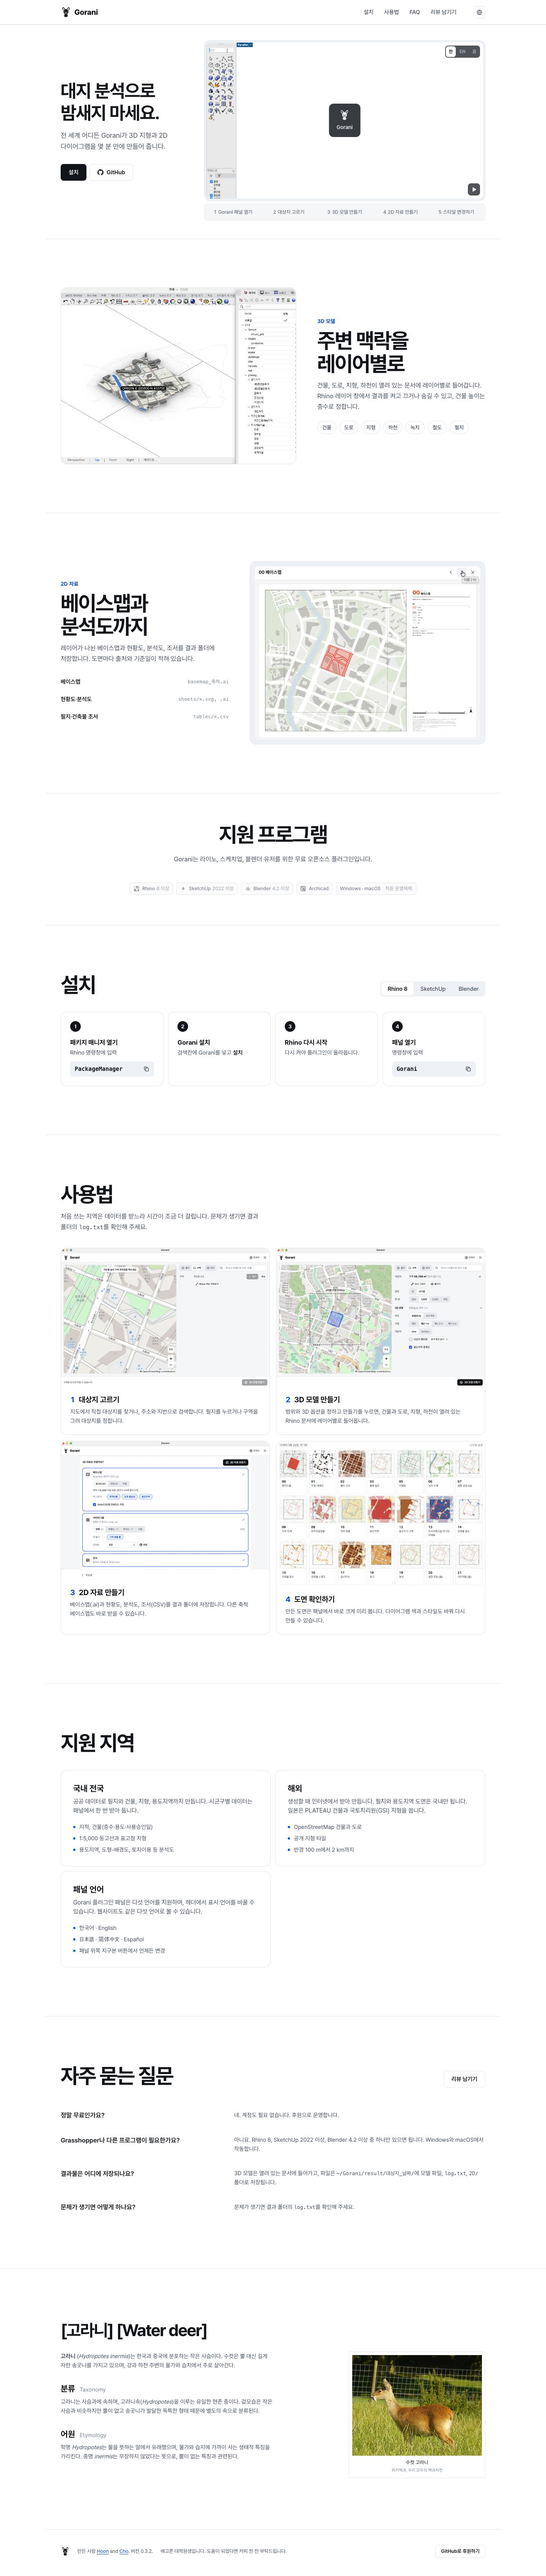
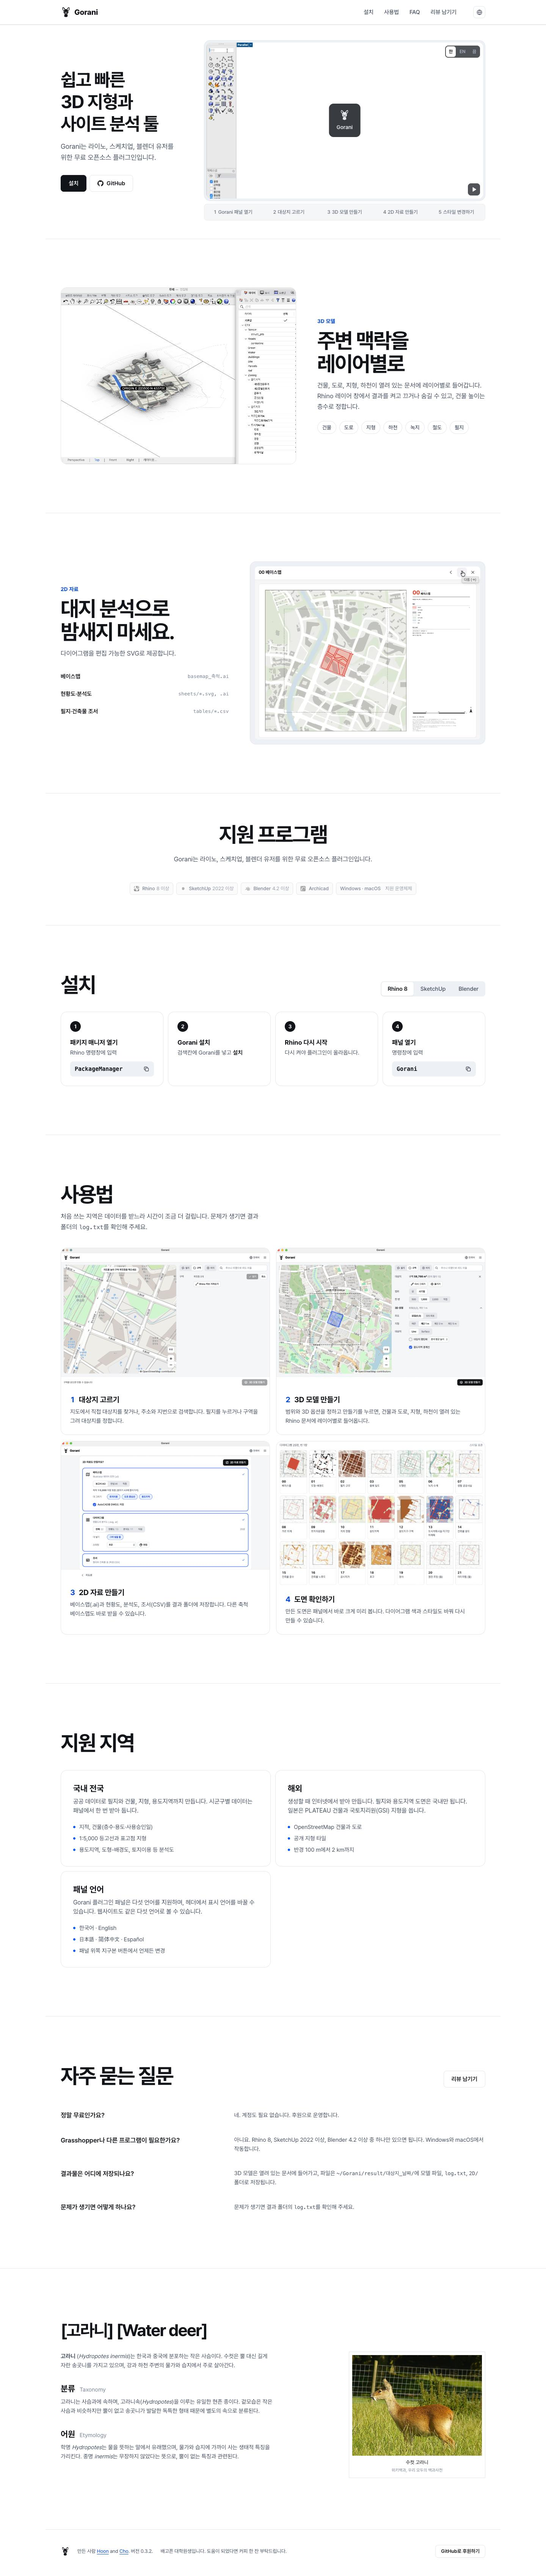
Hero는 담백하게 되돌리고, "대지 분석으로 밤새지 마세요."는 2D 자료 섹션 제목으로
- Hero: "쉽고 빠른 3D 지형과 사이트 분석 툴" / "Gorani는 라이노, 스케치업, 블렌더 유저를 위한 무료 오픈소스 플러그인입니다."
- 2D 자료: 제목 "대지 분석으로 밤새지 마세요.", 부제 "다이어그램을 편집 가능한 SVG로 제공합니다."
- 다섯 언어 같은 뜻으로, 기능 섹션 제목은 text-wrap: balance
- PR 스크린샷 다시 찍음

Changed region(s): [[0.0938, 0.2187, 0.3125, 0.2812], [0.0938, 0.0312, 0.3125, 0.0937], [0.3438, 0.2499, 0.4062, 0.2812]]

diff --git a/ja/index.html b/ja/index.html
@@ -107,8 +107,8 @@
   <div class="wrap hero-wrap">
     <section class="hero" aria-labelledby="hero-title">
       <div class="hero-text">
-        <h1 id="hero-title">敷地分析で徹夜しない。</h1>
-        <p class="lead">世界中どこでも、Goraniが3D地形と2Dダイアグラムを数分で作ります。</p>
+        <h1 id="hero-title">かんたん・すばやく3D地形とサイト分析</h1>
+        <p class="lead">Goraniは、Rhino・SketchUp・Blenderユーザーのための無料オープンソースプラグインです。</p>
         <div class="acts">
           <a class="btn go" href="#install">インストール</a>
           <a class="btn" href="https://github.com/969flash/gorani"><svg aria-hidden="true"><use href="#i-github"/></svg>GitHub</a>
@@ -168,8 +168,8 @@
       </div>
       <div>
         <span class="eyebrow">2D資料</span>
-        <h2 id="maps-title">ベースマップから分析図まで</h2>
-        <p class="sub">レイヤー分けしたベースマップ、現況図、分析図、調書を結果フォルダに保存します。各図面には出典と基準日が記載されます。</p>
+        <h2 id="maps-title">敷地分析で徹夜しない。</h2>
+        <p class="sub">ダイアグラムは編集できるSVGで提供します。</p>
         <ul class="files">
           <li><b>ベースマップ</b><code>basemap_縮尺.ai</code></li>
           <li><b>現況図・分析図</b><code>sheets/*.svg, .ai</code></li>

diff --git a/index.html b/index.html
@@ -107,8 +107,8 @@
   <div class="wrap hero-wrap">
     <section class="hero" aria-labelledby="hero-title">
       <div class="hero-text">
-        <h1 id="hero-title">대지 분석으로 밤새지 마세요.</h1>
-        <p class="lead">전 세계 어디든 Gorani가 3D 지형과 2D 다이어그램을 몇 분 만에 만들어 줍니다.</p>
+        <h1 id="hero-title">쉽고 빠른 3D 지형과 사이트 분석 툴</h1>
+        <p class="lead">Gorani는 라이노, 스케치업, 블렌더 유저를 위한 무료 오픈소스 플러그인입니다.</p>
         <div class="acts">
           <a class="btn go" href="#install">설치</a>
           <a class="btn" href="https://github.com/969flash/gorani"><svg aria-hidden="true"><use href="#i-github"/></svg>GitHub</a>
@@ -168,8 +168,8 @@
       </div>
       <div>
         <span class="eyebrow">2D 자료</span>
-        <h2 id="maps-title">베이스맵과 분석도까지</h2>
-        <p class="sub">레이어가 나뉜 베이스맵과 현황도, 분석도, 조서를 결과 폴더에 저장합니다. 도면마다 출처와 기준일이 적혀 있습니다.</p>
+        <h2 id="maps-title">대지 분석으로 밤새지 마세요.</h2>
+        <p class="sub">다이어그램을 편집 가능한 SVG로 제공합니다.</p>
         <ul class="files">
           <li><b>베이스맵</b><code>basemap_축척.ai</code></li>
           <li><b>현황도·분석도</b><code>sheets/*.svg, .ai</code></li>

diff --git a/es/index.html b/es/index.html
@@ -107,8 +107,8 @@
   <div class="wrap hero-wrap">
     <section class="hero" aria-labelledby="hero-title">
       <div class="hero-text">
-        <h1 id="hero-title">No trasnoches con el análisis del sitio.</h1>
-        <p class="lead">En cualquier lugar del mundo, Gorani crea terreno 3D y diagramas 2D en minutos.</p>
+        <h1 id="hero-title">Terreno 3D y análisis del sitio, fácil y rápido</h1>
+        <p class="lead">Gorani es un plugin gratuito y de código abierto para usuarios de Rhino, SketchUp y Blender.</p>
         <div class="acts">
           <a class="btn go" href="#install">Instalar</a>
           <a class="btn" href="https://github.com/969flash/gorani"><svg aria-hidden="true"><use href="#i-github"/></svg>GitHub</a>
@@ -168,8 +168,8 @@
       </div>
       <div>
         <span class="eyebrow">Material 2D</span>
-        <h2 id="maps-title">Planos base y mapas de análisis</h2>
-        <p class="sub">Un plano base por capas, mapas de análisis y tablas se guardan en la carpeta de resultados. Cada plano indica sus fuentes y fechas de referencia.</p>
+        <h2 id="maps-title">No trasnoches con el análisis del sitio.</h2>
+        <p class="sub">Los diagramas se entregan en SVG editable.</p>
         <ul class="files">
           <li><b>Plano base</b><code>basemap_escala.ai</code></li>
           <li><b>Mapas de análisis</b><code>sheets/*.svg, .ai</code></li>

diff --git a/zh/index.html b/zh/index.html
@@ -107,8 +107,8 @@
   <div class="wrap hero-wrap">
     <section class="hero" aria-labelledby="hero-title">
       <div class="hero-text">
-        <h1 id="hero-title">别再为场地分析熬夜了。</h1>
-        <p class="lead">无论在世界哪里，Gorani 都能在几分钟内生成3D地形和2D图表。</p>
+        <h1 id="hero-title">简单快速的3D地形与场地分析工具</h1>
+        <p class="lead">Gorani 是面向 Rhino、SketchUp 和 Blender 用户的免费开源插件。</p>
         <div class="acts">
           <a class="btn go" href="#install">安装</a>
           <a class="btn" href="https://github.com/969flash/gorani"><svg aria-hidden="true"><use href="#i-github"/></svg>GitHub</a>
@@ -168,8 +168,8 @@
       </div>
       <div>
         <span class="eyebrow">2D资料</span>
-        <h2 id="maps-title">从底图到分析图</h2>
-        <p class="sub">分图层的底图、现状图、分析图和统计表会保存到结果文件夹。每张图纸都注明数据来源和基准日期。</p>
+        <h2 id="maps-title">别再为场地分析熬夜了。</h2>
+        <p class="sub">图表以可编辑的 SVG 格式提供。</p>
         <ul class="files">
           <li><b>底图</b><code>basemap_比例尺.ai</code></li>
           <li><b>现状图与分析图</b><code>sheets/*.svg, .ai</code></li>

diff --git a/en/index.html b/en/index.html
@@ -107,8 +107,8 @@
   <div class="wrap hero-wrap">
     <section class="hero" aria-labelledby="hero-title">
       <div class="hero-text">
-        <h1 id="hero-title">Don't pull all&#8209;nighters on site analysis.</h1>
-        <p class="lead">Anywhere in the world, Gorani makes 3D terrain and 2D diagrams in minutes.</p>
+        <h1 id="hero-title">Easy, fast 3D terrain and site analysis</h1>
+        <p class="lead">Gorani is a free, open-source plugin for Rhino, SketchUp, and Blender users.</p>
         <div class="acts">
           <a class="btn go" href="#install">Install</a>
           <a class="btn" href="https://github.com/969flash/gorani"><svg aria-hidden="true"><use href="#i-github"/></svg>GitHub</a>
@@ -168,8 +168,8 @@
       </div>
       <div>
         <span class="eyebrow">2D set</span>
-        <h2 id="maps-title">Basemaps and analysis maps</h2>
-        <p class="sub">A layered basemap, analysis maps and tables are saved to the result folder. Every drawing prints its sources and reference dates.</p>
+        <h2 id="maps-title">Don't pull all&#8209;nighters on site analysis.</h2>
+        <p class="sub">Diagrams come as editable SVG files.</p>
         <ul class="files">
           <li><b>Basemap</b><code>basemap_scale.ai</code></li>
           <li><b>Analysis maps</b><code>sheets/*.svg, .ai</code></li>

diff --git a/assets/style.css b/assets/style.css
@@ -248,6 +248,7 @@ h1, h2, h3, p, ol, ul, figure { margin: 0; }
 .final::after { content: ""; position: absolute; right: max(16px, calc((100% - 1200px) / 2)); bottom: 0; left: max(16px, calc((100% - 1200px) / 2)); height: 1px; background: var(--hair); }
 .block.soft { background: var(--soft); }
 .block h2 { font-size: clamp(34px, 4vw, 56px); line-height: 1.08; font-weight: 700; letter-spacing: -.045em; }
+.feature h2 { text-wrap: balance; }   /* 두 줄일 때 줄 길이를 고르게 */
 .block-head { display: flex; flex-wrap: wrap; align-items: end; justify-content: space-between; gap: 16px; margin-bottom: 40px; }
 .block-head > .hosts { margin-top: 0; }
 .eyebrow { display: block; margin-bottom: 12px; font-size: 14px; line-height: 20px; font-weight: 700; color: var(--blue-ink); letter-spacing: .02em; }
